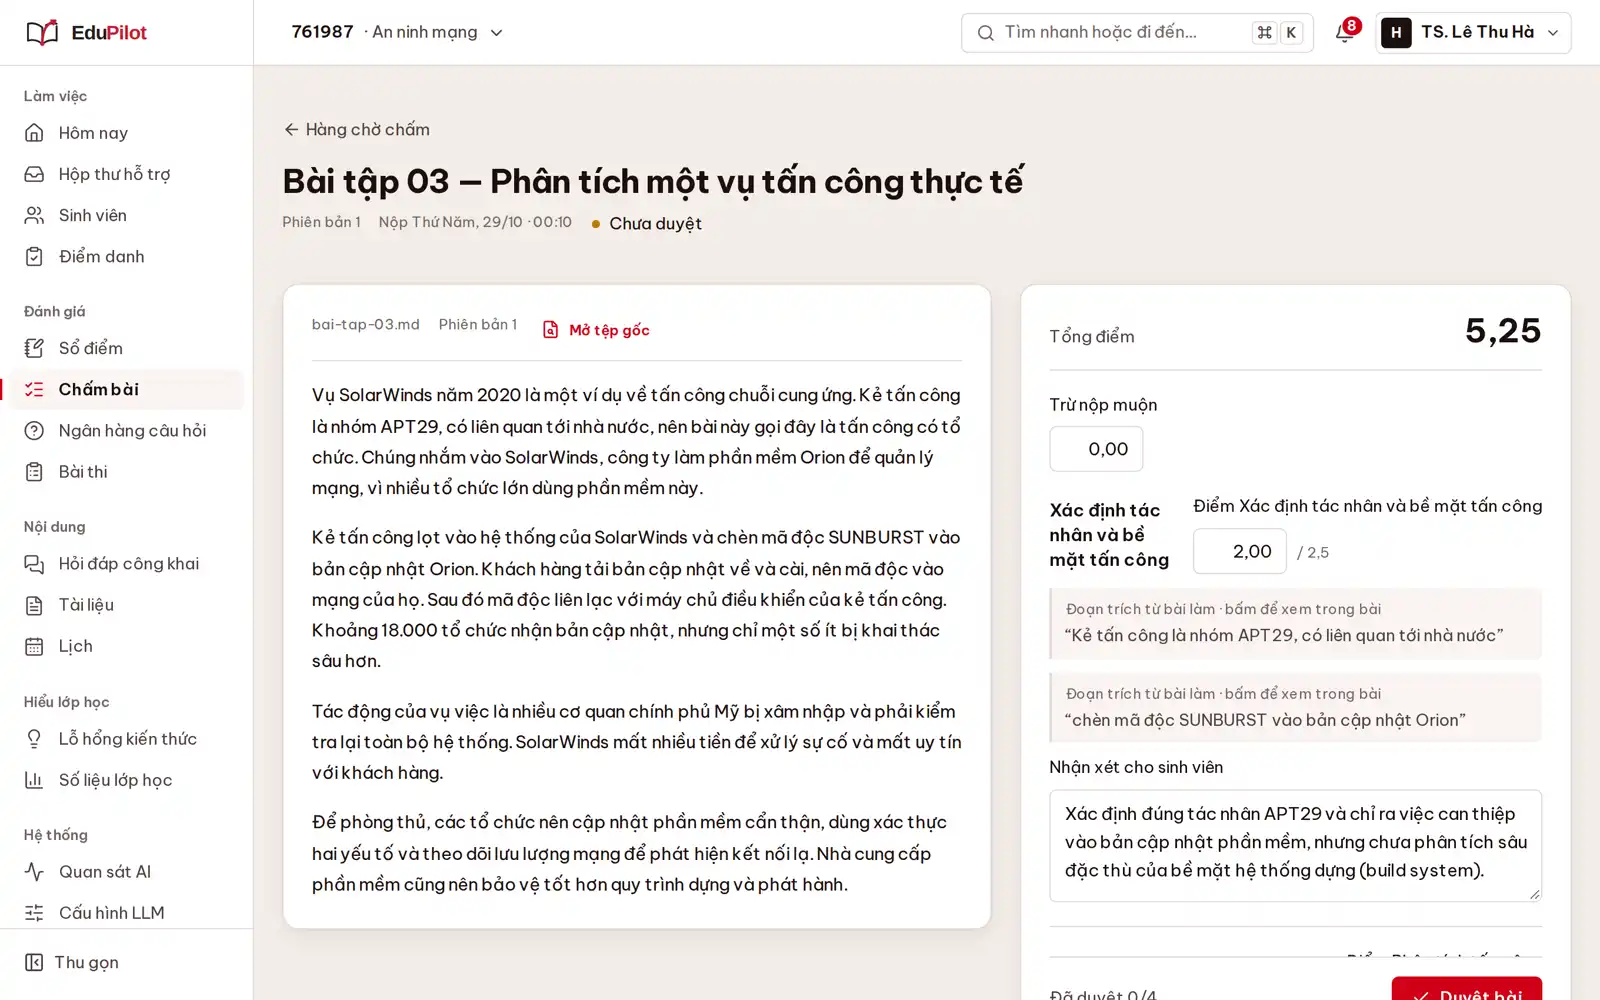
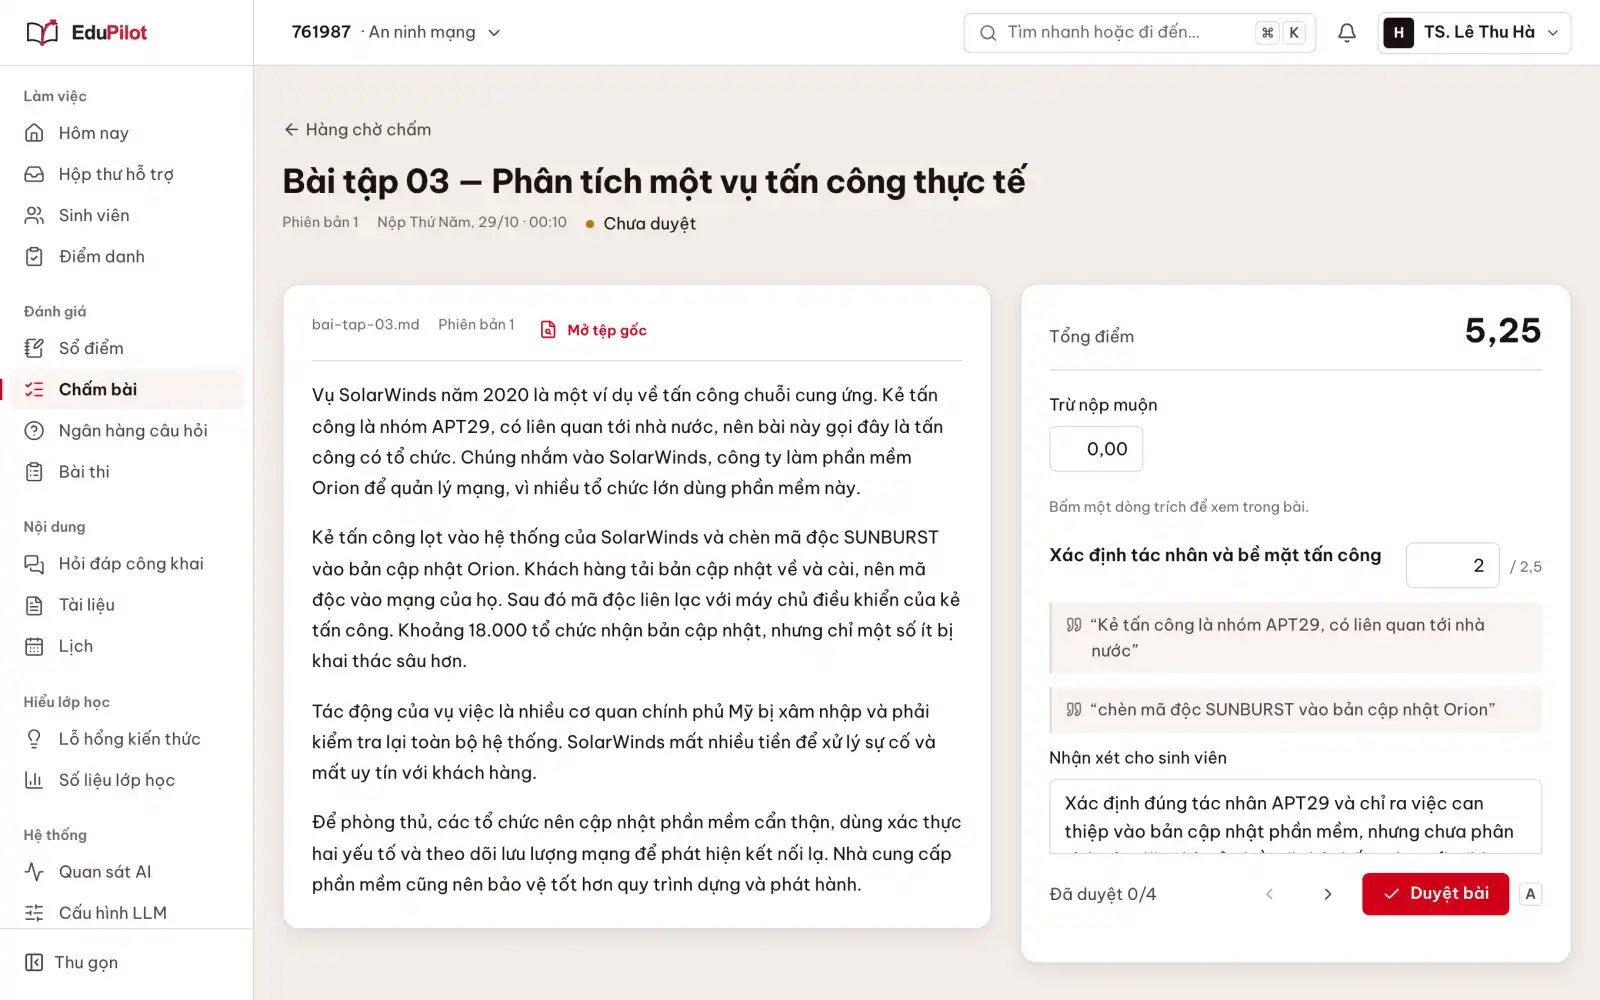
9.1 sửa QC đợt 5 lượt 3

diff --git a/frontend/src/features/me/Me.module.css b/frontend/src/features/me/Me.module.css
@@ -6,8 +6,9 @@
 .whatifInput { width: 88px; }
 /* < 720 px: ngày và nội dung cùng một dòng (US-UX91-20 AC8: trang ngắn hơn). */
 @media (max-width: 719px) {
-  .dense dl > div { grid-template-columns: auto minmax(0, 1fr); gap: var(--ep-space-3); padding: var(--ep-space-2) 0; }
+  .dense dl > div { grid-template-columns: auto minmax(0, 1fr); gap: var(--ep-space-3); padding: var(--ep-space-1) 0; }
 }
 @media (max-width: 719px) {
-  .stack.stack > section + section { margin-top: var(--ep-space-8); }
+  .stack.stack > section + section { margin-top: var(--ep-space-6); }
+  .stack.stack > section { gap: var(--ep-space-3); } /* tiêu đề khối sát khối hơn: /me ở 375 ≤ 1.600 px (AC8) */
 }

diff --git a/docs/sprints/9.1/handoff/dev-wave-5-lan3.md b/docs/sprints/9.1/handoff/dev-wave-5-lan3.md
@@ -1,0 +1,8 @@
+# Dev — sửa QC đợt 5 lượt 3
+
+| Mục | Làm gì | Kiểm |
+| --- | --- | --- |
+| UX20-9 / AC8 (`/me` 375 cao 1.647 px) | `Me.module.css`, < 720 px: khoảng cách giữa các khối 32 → 24 px, tiêu đề khối → khối 16 → 12 px, đệm dòng `.dense` 8 → 4 px. Không bớt chữ nào | `me.spec.ts` «me 375 … gập sẵn» (fixture có khối Điểm, 9 buổi, 2 bài tập): 1.486 → **1.410 px** (−76). `sv.kha` có ≥ số dòng của fixture nên bớt ≥ 47 px → ước ≈ 1.570. QC đo lại trên `sv.kha` |
+| UX91-X1 (`story-review-v1*.webp`) | Chụp lại từ màn `/grading/<id>` hiện tại (thanh «Duyệt bài», «Đã duyệt 0/4», trích dẫn dạng trích). Không có bản chạy nào còn bài nộp chưa duyệt (demo 0 bài nộp; `ep-qc` đã tắt) nên dựng 4 bài nộp + kết quả nháp mẫu (bài «Bài tập 03 — Phân tích một vụ tấn công thực tế», 4 tiêu chí, tổng 5,25) trực tiếp vào DB dev rồi chụp bằng gateway native + frontend dựng từ nhánh này | `story-review-v1.webp` 77,7 KB (≤ 90), `-800` 35,8 KB |
+
+Ghi chú: bài làm trong ảnh là dữ liệu mẫu do dev viết (không phải bài sinh viên thật). Ảnh mã hoá bằng `cwebp`, không `encode.sh` (máy không có ffmpeg).
